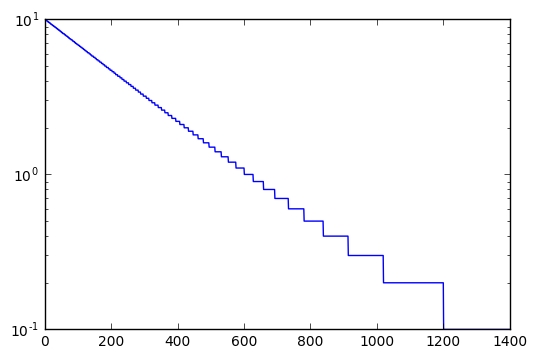
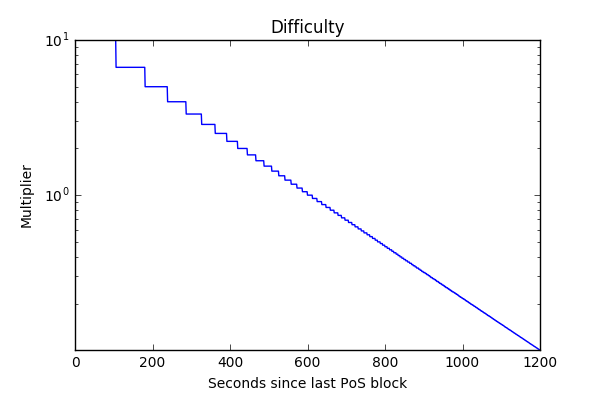
exponential-pos-target: revision after a first round of testing: hash target interpretation corrected & resolution increased

Changed region(s): [[0.0298, 0.0306, 0.9832, 0.9805]]

diff --git a/text/0001-exponential-pos-target-for-block-time-stabilization/0001-exponential-pos-target-for-block-time-stabilization.md b/text/0001-exponential-pos-target-for-block-time-stabilization/0001-exponential-pos-target-for-block-time-stabilization.md
@@ -26,45 +26,48 @@ This property allows for a much finer control over the hash target, making it ha
 Such a system would naturally push the block interval closer to the target even when large stakeholders suddenly join or leave the network.
 
 ## Detailed Design
-The hash target for PoS blocks is multiplied by a factor ranging between 10 and 0.1, meaning that the effective hash target to stake a block one second after a previous block equals 10 times the static target, while the effective hash target to stake a block 20 minutes or later after a previous block equals the static target divided by 10.
+The hash target for PoS blocks is multiplied by a factor ranging between 0.1 and 10, meaning that the difficulty to stake a block one second after a previous block equals 10 times the static difficulty, while the difficulty to stake a block 20 minutes or later after a previous block equals the static difficulty divided by 10.
 To make this multiplier equal to 1 with a 10 minute interval, an exponential function should be used to calculate it based on the number of seconds since the last block.
 
 ### Exponential Multiplier
 Since the hash target is encoded as a 256bit integer that only supports multiplication by an integral number, a sampled version of the continuous exponential function is used.
 The sampling resolution is a trade off between low difficulty steps and a reduction of the hash target range.
 One could argue that it would be simpler to implement only a few difficulty steps instead of a sampled exponential function, however the bigger the step in difficulty the higher the chance two blocks are staked short after the difficulty reduction.
-Therefore a resolution multiplier `m=10` is chosen to produce reasonable low difficulty steps while limiting the reduction of the hash target range to a factor 10.
+Therefore a resolution multiplier `res=20` is chosen to produce reasonable low difficulty steps while limiting the reduction of the hash target range to a factor 10.
 The function can be implemented as a lookup table to completely avoid sensitivity to compiler floating point precision.
 
-The resulting exponential function is shown below, where t is the time in seconds.
+The resulting exponential multiplier function is defined by the function below.
 
 ```python
-m = 10              # resolution multiplier
-cte = ln(1/10)/600  # decay constant: divide by 10 every 600 seconds
+res = 20            # resolution multiplier
+cte = ln(10)/600    # growth constant: multiply hash target by 10 every 600 seconds
 
-f(t) = ceil(m*10*(exp(cte * t)))/m
+f(t) = floor(res*0.1*(exp(cte * t)))/res
 ```
 
-![exponential function plotted with linear axes](exp-lin.png)
-![exponential function plotted with logarithmic y-axis](exp-log.png)
+The difficulty to stake a block is inversely proportional to the hash target.
+The figures below illustrates the decrease in difficulty to stake over the 20 minute interval.
 
-Note that this function has a minimum of 0.1.
+![exponential difficulty multiplier plotted with linear axes](exp-lin.png)
+![exponential difficulty multiplier plotted with logarithmic y-axis](exp-log.png)
+
+Note that the difficulty is limited by the `[0.1, 10]` interval.
 
 ### Staking Future Blocks
-One could argue that this multiplier incentivizes staking blocks in the future, as a future block has a much lower hash target to meet.
+One could argue that this multiplier incentivizes staking blocks in the future, as a future block has a much lower difficulty to stake.
 Therefore, it is important that this multiplier is included in the calculation of the chain trust, so that if a node stakes a block in the future, it will be orphaned by blocks closer to the present.
 
 Staking future blocks is nothing new, the current protocol accepts future blocks in a certain range and doesn't require blocks on the chain to have a strictly rising time.
 Malicious nodes can decide to stake a wider timerange to increase their chances of finding blocks or to organize their blocks to increase their chances on a successful double spend attack.
 
-The exponential target multiplier makes it very hard to stake a block prior or close to the previous block, effectively reducing the timerange an attacker can use to stake.
+The exponential target multiplier makes it very hard to stake a block prior or close to the previous block, effectively increasing the timerange required by an attacker for his block streak.
 On the other hand, the chances of finding a block in the far future is drastically increased.
 Therefore, well behaving nodes should shelve future blocks until their block time is reached, so they won't participate in staking blocks on top of a future block.
 The clocks of well behaving nodes are not expected to drift more than a few seconds, meaning that an honest future block is not expected to be shelved longer than expected network relay times.
 
 Opportunistic nodes might stake on top of both chains.
 To effectively stake on top of a future block, the search interval should be extended even further in the future, meaning that the future chain will very rapidly exceed the maximum allowed clock drift, resulting in all nodes discarding it quickly.
-While the honest chain will easily outperform the future chain's trust that is at best advancing at the edge of the maximum clock drift.
+While the honest chain will easily outperform the future chain's trust that is at best advancing at the edge of the maximum clock drift with less and lower trust blocks.
 
 ##### *Note about Proof-of-Work*
 *When considering Proof-of-Work mining a miner mining a future chain takes a big risk by putting its hash power at stake on the future chain.
@@ -72,7 +75,7 @@ Reinforcing the hybrid nature of the Peercoin blockchain so it becomes feasible 
 The discussion about reinforcing the hybrid nature is outside the scope of this proposal as its benefits are independent of it.*
 
 ### Implementation
-*At the time of writing (05-January-2017), this concept is being implemented parallel to this discussion, to be published and tested on peercoin's testnet soon.*
+*At the time of writing (05-January-2017), this concept is being implemented parallel to this discussion, to be published and tested on peercoin's testnet soon after.*
 
 Code changes to the current retarget algorithm can be easily avoided by not including the multiplier in the block's nBits field.
 The multiplier is fully determined by the time since the last Proof-of-Stake block, therefore the multiplier should be calculated on the fly during the actions listed below:
@@ -88,8 +91,9 @@ Therefore, a hard fork is required for this protocol change.
 ## Advantages
 
 * Proof-of-Stake blocks are staked at a much more stable rate closer to the target rate.
+* To produce multiple blocks in a row, an attacker needs to dominate the network for a larger timespan.
 * The competitive advantage of staking a wide timerange is greatly reduced.
-* Staking multiple non-future blocks in a row is much harder due to the previous point and the reduced advantage of network latency.
+* The influence of network latency on block creation, provided it is an order of magnitude lower than the expected block spacing, is greatly reduced.
 * Chance-to-stake pre-calculation accuracy is reduced, incentivizing more continuous staking.
 * Block timestamps differ less from the actual creation time.
 
